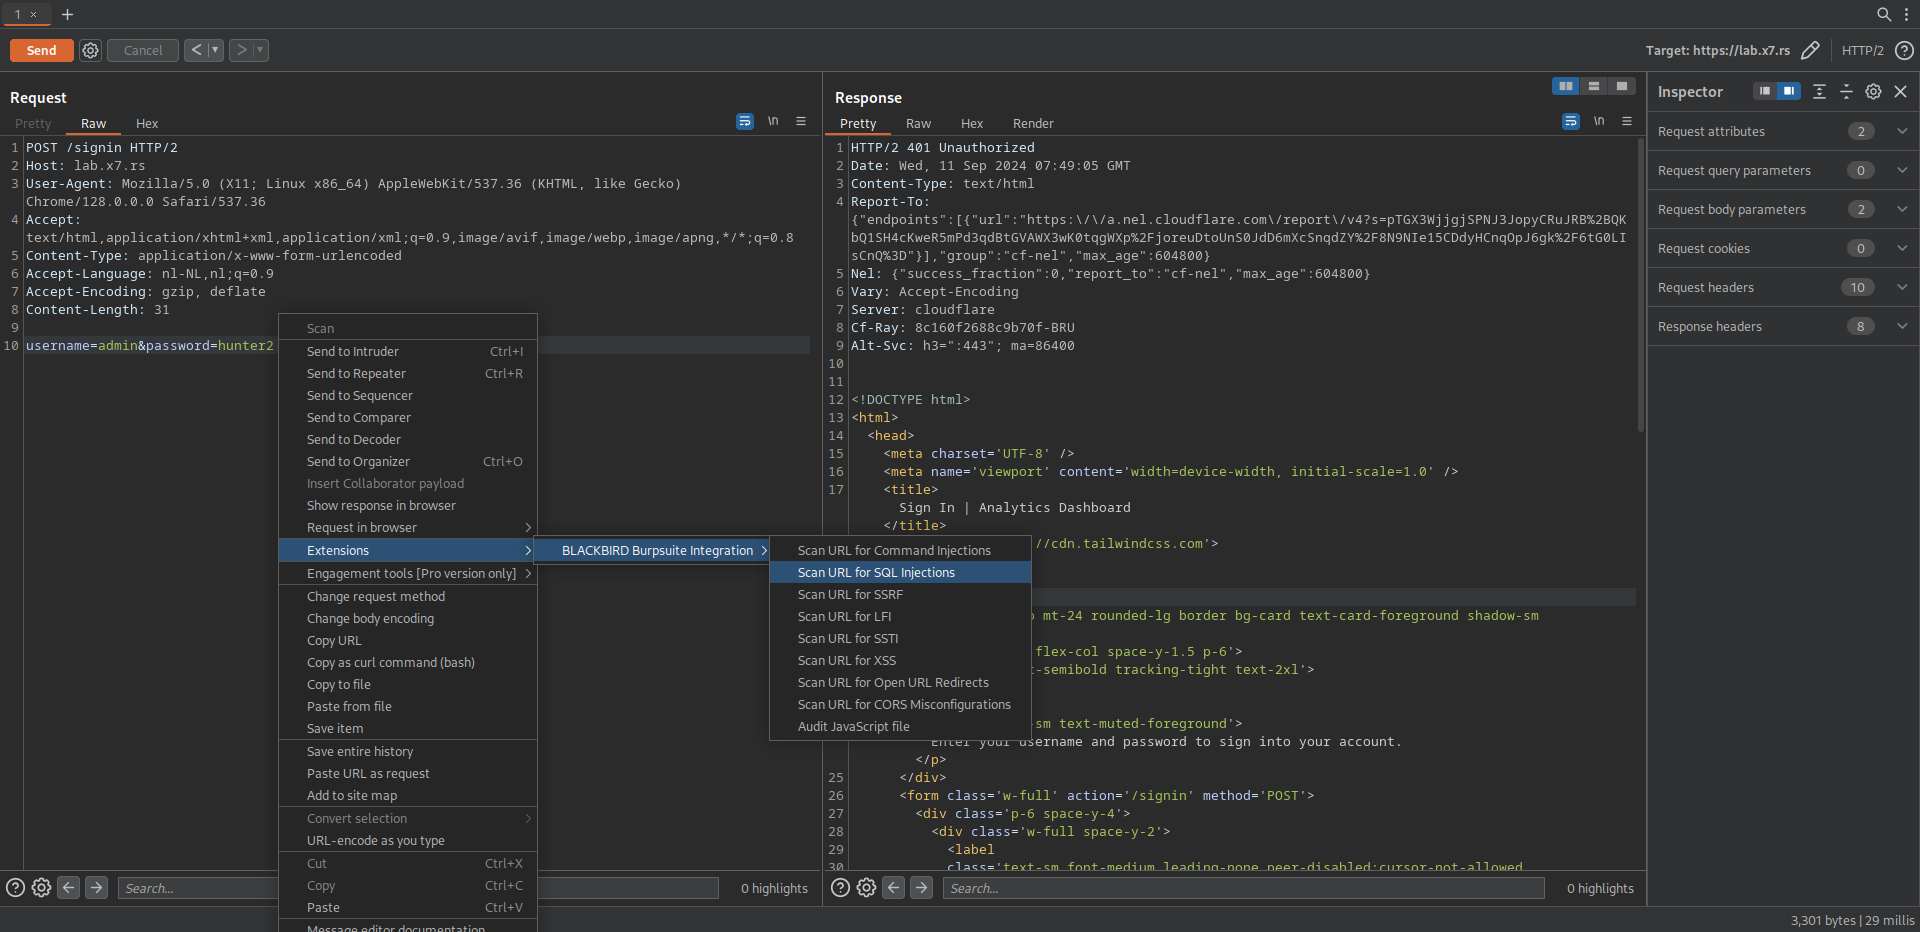
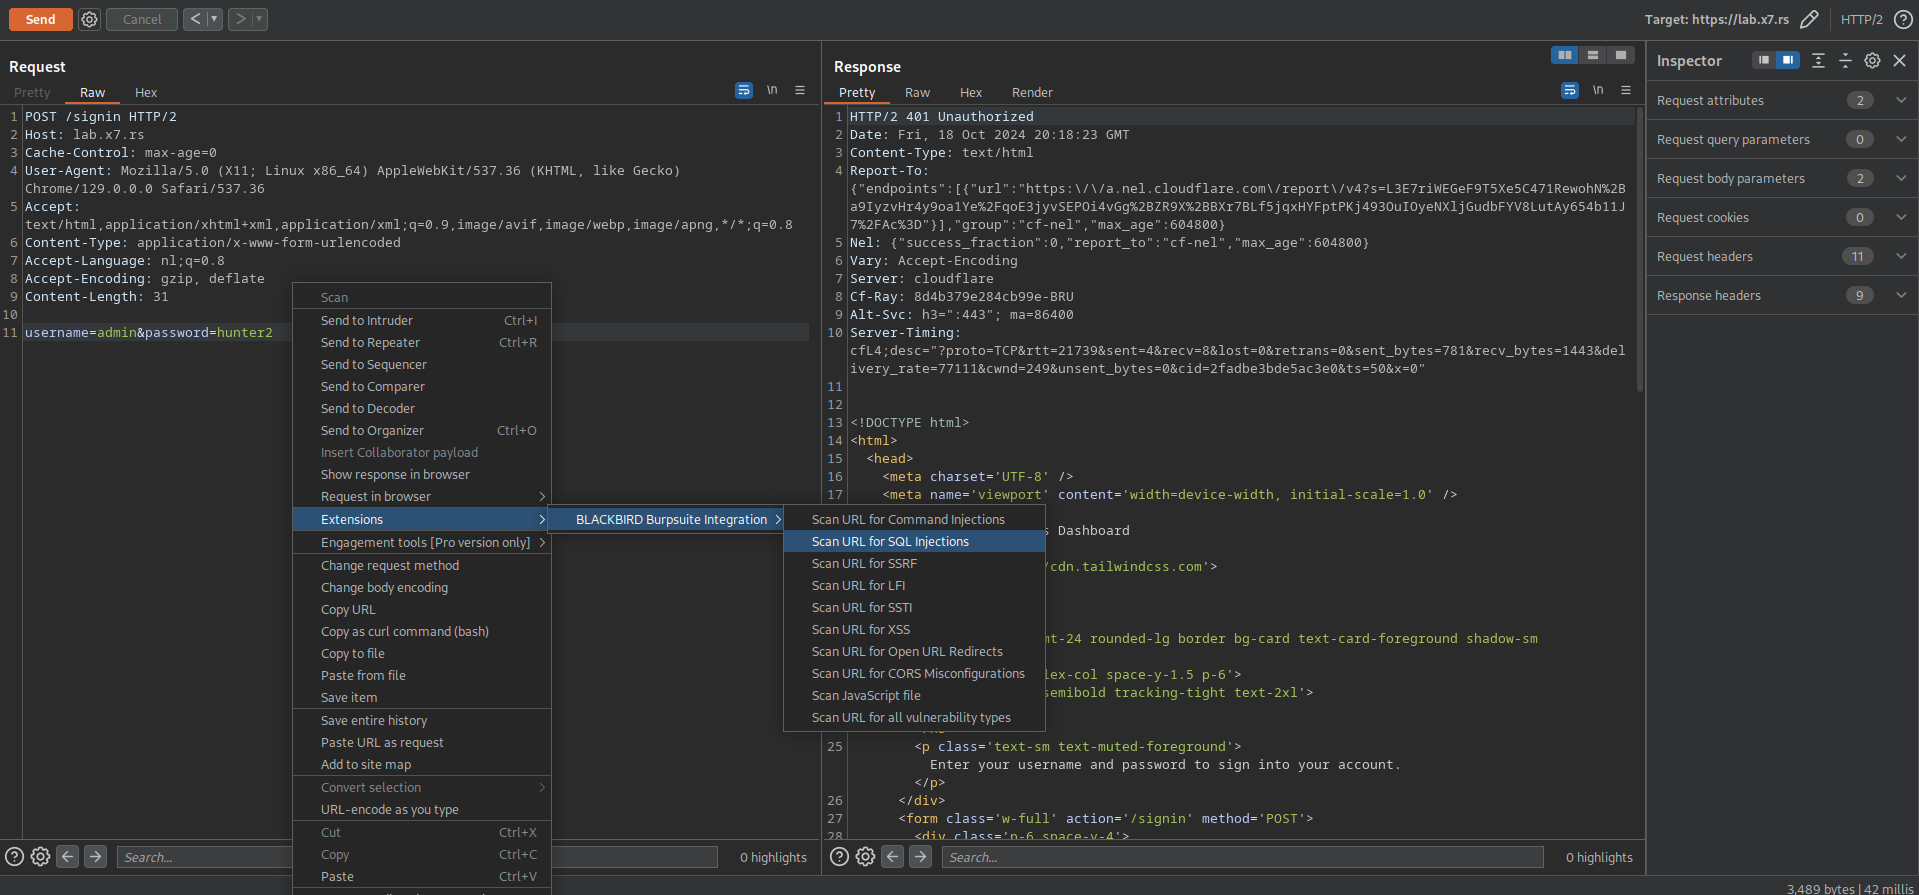
New option to scan for all vulnerabilities

Changed region(s): [[0.0, 0.0, 1.0, 1.0], [0.9224, 0.9654, 1.0, 1.0], [0.246, 0.3318, 0.2767, 0.4223]]

diff --git a/blackbird-burpsuite-integration.py b/blackbird-burpsuite-integration.py
@@ -266,7 +266,7 @@ Usage Guide:
 
 		if scanner == None:
 			config = {
-				"name": "Burpsuite Scan",
+				"name": "",
 				"targets": [ target ],
 				"targetId": None,
 				"type": "deep",

diff --git a/README.md b/README.md
@@ -4,6 +4,7 @@ This Burp Suite extension integrates BLACKBIRD Web App Pentesting Suite with Bur
 
 ## Features
 
+- Scan URLs for all security vulnerabilities with 1 click
 - Scan URLs for multiple security vulnerabilities:
   - Command Injections
   - SQL Injections
